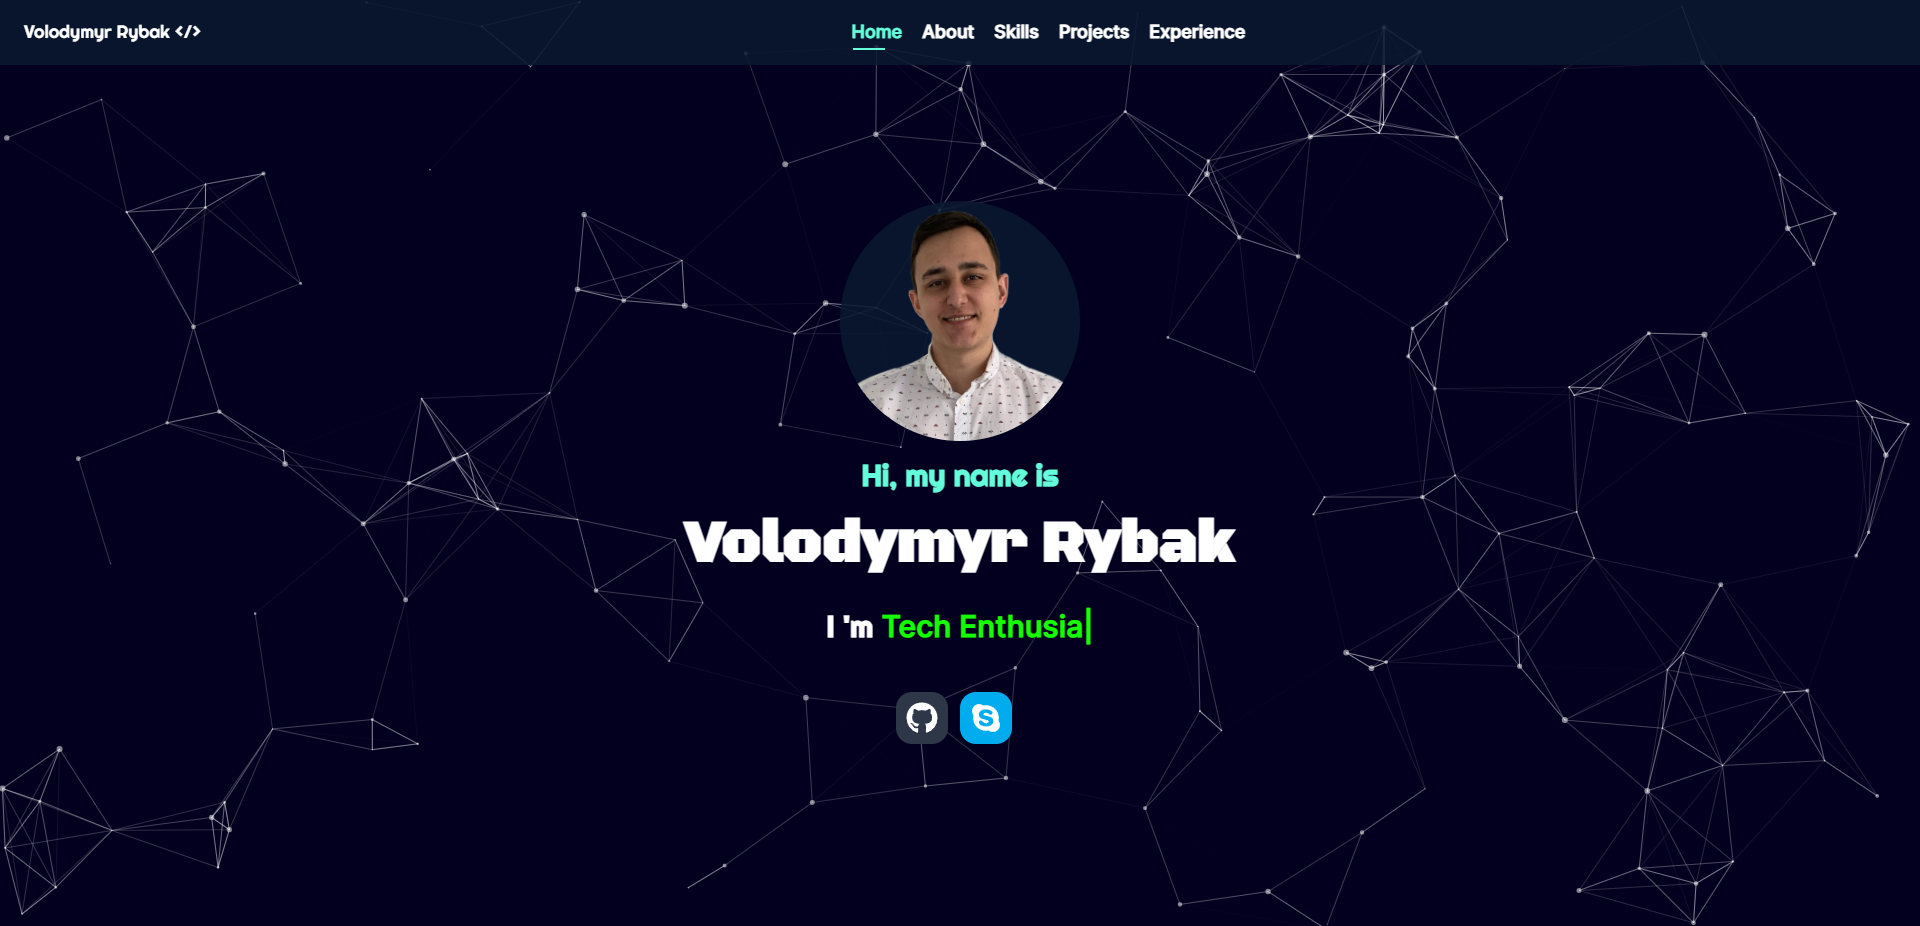
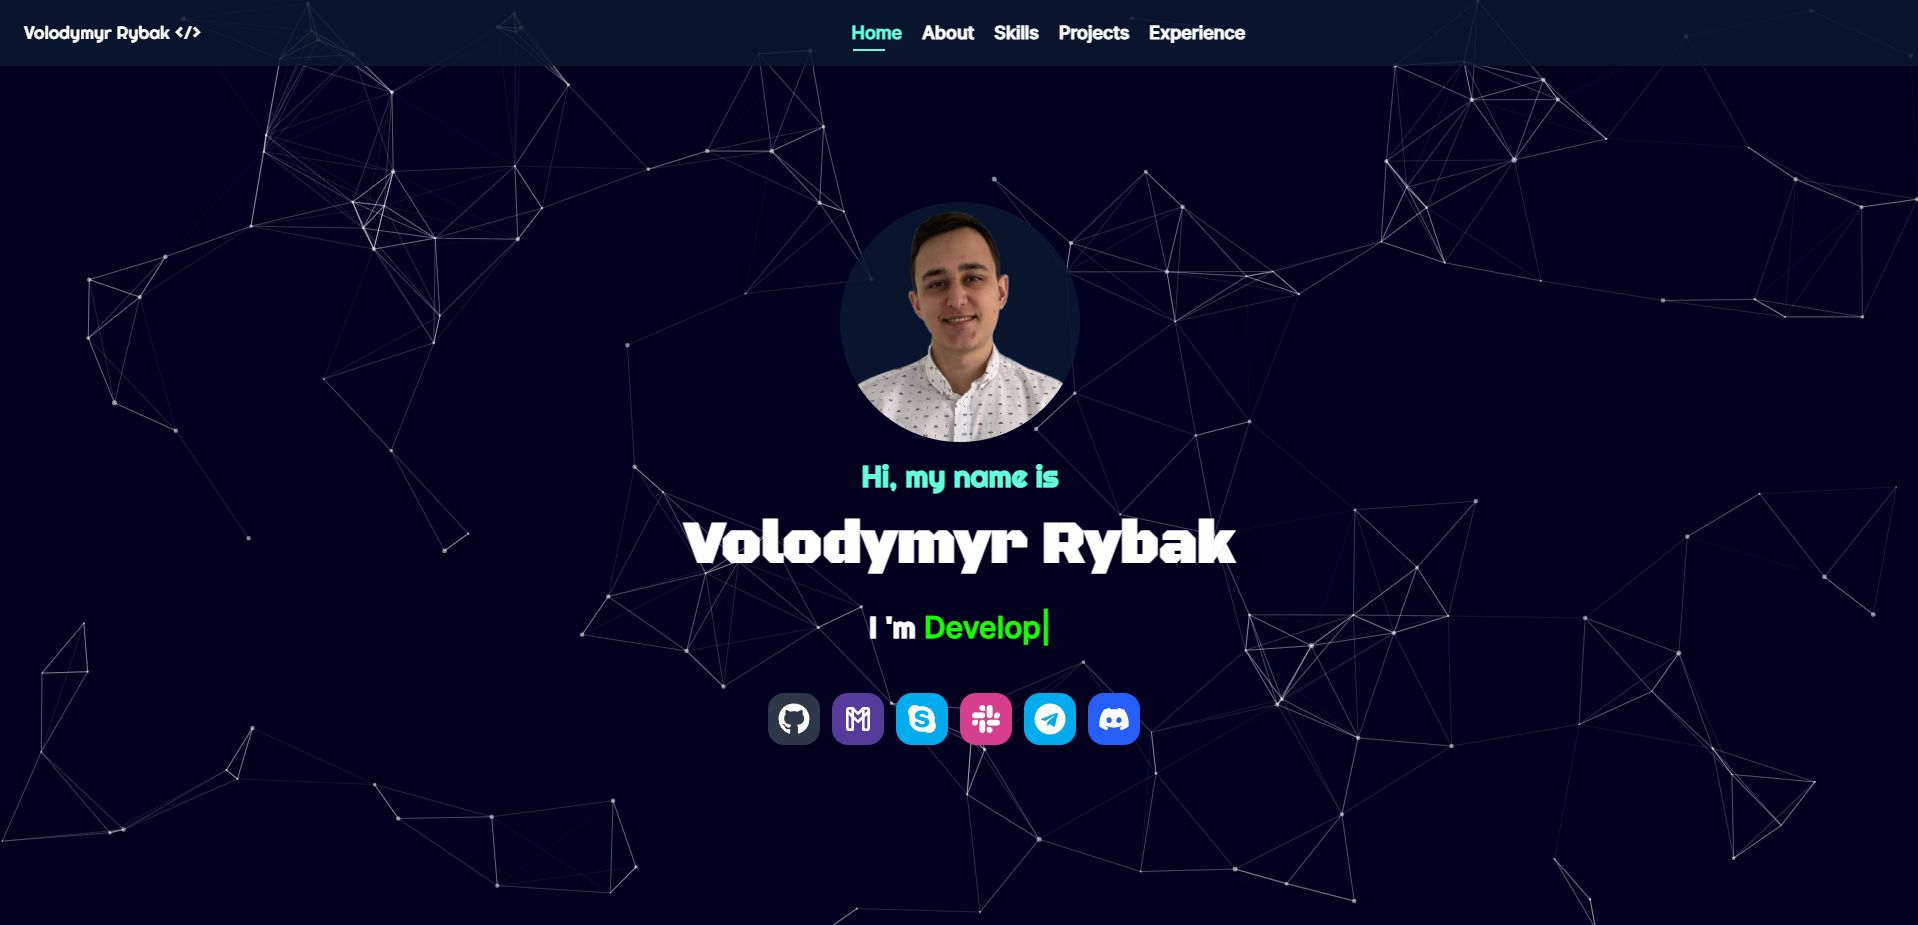
updated some features

diff --git a/src/utils/constants.js b/src/utils/constants.js
@@ -31,7 +31,8 @@ import {
   TbBrandMongodb,
   TbBrandMysql,
   TbBrandFigma,
-  TbBrandDjango
+  TbBrandDjango,
+  TbBrandGmail
 } from "react-icons/tb";
 import { BiLogoJquery, BiLogoPostgresql } from "react-icons/bi";
 import {
@@ -359,6 +360,12 @@ export const socialMediaLinks = [
     icon: FaGithub,
     backgroundColor: "gray.700",
     hoverColor: "gray.600",
+  },
+  {
+    href: "volodymyrrybak.ua@gmail.com",
+    icon: TbBrandGmail,
+    backgroundColor: "purple.700",
+    hoverColor: "purple.600",
   },
   {
     href: "https://join.skype.com/invite/xlqmhpwVZ4qL",
